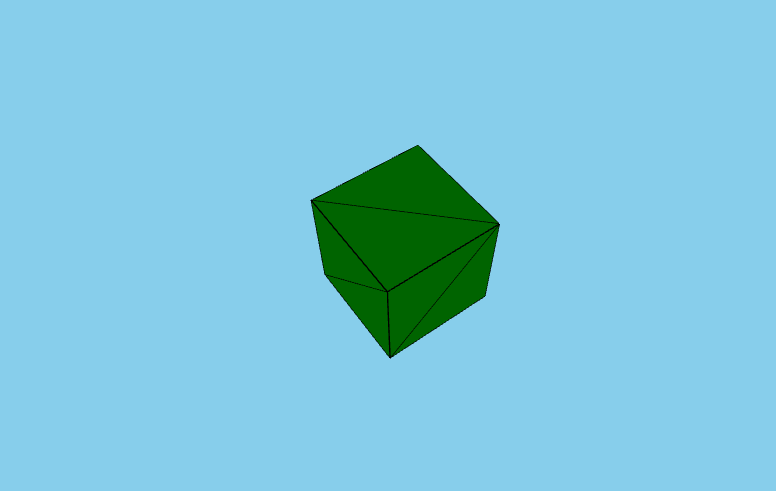
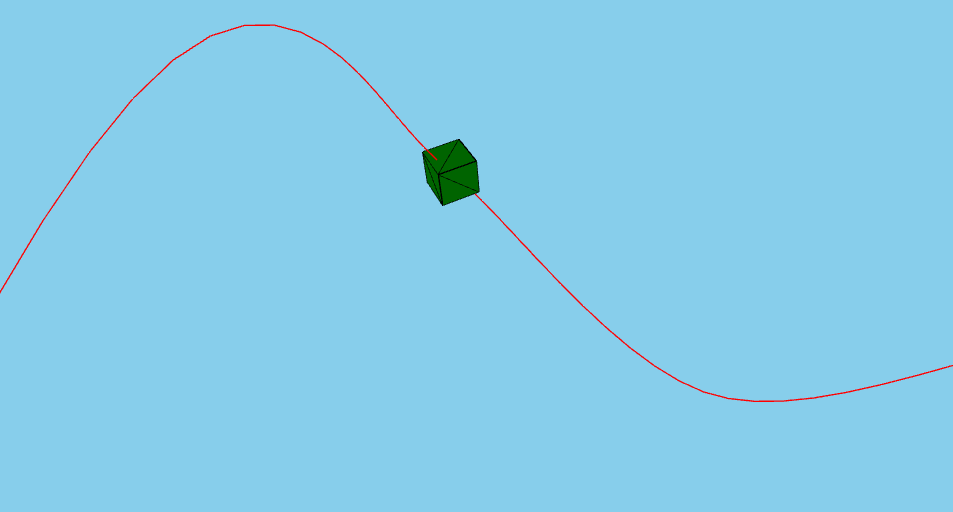
update readme

diff --git a/example/src/main/kotlin/LoaderTest.kt b/example/src/main/kotlin/LoaderTest.kt
@@ -14,7 +14,7 @@ import kotlin.browser.document
 import kotlin.browser.window
 
 
-open class LoaderTest {
+class LoaderTest {
 
     val renderer: WebGLRenderer
     val scene: Scene

diff --git a/README.md b/README.md
@@ -12,17 +12,27 @@ Kotlin wrappers for Three.js (r88)
     <meta charset="UTF-8">
     <title>Kotlin + three.js</title>
     <style>
-        body { margin: 0; }
-        canvas { width: 100%; height: 100% }
-    </style>
+			body { margin: 0; }
+			canvas { width: 100%; height: 100% }
+		</style>
 </head>
 <body>
 
-    <script src="..../three.min.js"></script>
-    <script src="..../OrbitControls.js"></script>
+<script type="text/javascript" src="https://cdnjs.cloudflare.com/ajax/libs/three.js/88/three.min.js"></script>
+<script type="text/javascript" src="js/OrbitControls.js"></script>
 
-    <script type="text/javascript" src="..../kotlin.js"></script>
-    <script type="text/javascript" src="..../threekt.js"></script>
+<script type="text/javascript" src="js/kt2js/kotlin.js"></script>
+<script type="text/javascript" src="js/kt2js/wrapper.js"></script>
+
+<script type="text/javascript" src="js/kt2js/example.js"></script>
+
+<script type="text/javascript">
+
+    new example.HelloWorld().animate()
+
+
+</script>
+
 
 </body>
 </html>
@@ -30,26 +40,6 @@ Kotlin wrappers for Three.js (r88)
 ```
 
 ```kotlin
-
-import org.three.cameras.PerspectiveCamera
-import org.three.external.controls.OrbitControls
-import org.three.geometries.BoxBufferGeometry
-import org.three.lights.AmbientLight
-import org.three.materials.MeshBasicMaterial
-import org.three.materials.MeshPhongMaterial
-import org.three.math.ColorConstants
-import org.three.scenes.Scene
-import org.three.objects.Mesh
-import org.three.renderers.WebGLRenderer
-import org.three.renderers.WebGLRendererParams
-import kotlin.browser.document
-import kotlin.browser.window
-
-fun main(args: Array<String>) {
-
-    HelloWorld().animate()
-
-}
 
 class HelloWorld {
 
@@ -62,6 +52,8 @@ class HelloWorld {
     init {
 
         scene = Scene()
+        scene.add(AmbientLight())
+
         camera = PerspectiveCamera(75, window.innerWidth.toDouble()/ window.innerHeight.toDouble(), 0.1, 1000.0)
 
         renderer = WebGLRenderer(WebGLRendererParams(
@@ -81,17 +73,35 @@ class HelloWorld {
                 })
         scene.add(cube)
 
-         val cube2 = Mesh(cube.geometry as BufferGeometry,
-                        MeshBasicMaterial().apply {
-                            this.wireframe = true
-                            this.color.set(ColorConstants.black)
-                        })
+        val cube2 = Mesh(cube.geometry as BufferGeometry,
+                MeshBasicMaterial().apply {
+                    this.wireframe = true
+                    this.color.set(ColorConstants.black)
+                })
         cube.add(cube2)
 
-        val light = AmbientLight()
-        scene.add(light)
-
         camera.position.z = 5.0
+
+
+        //Create a closed wavey loop
+        var curve = CatmullRomCurve3(
+                arrayOf(Vector3( -10.0, 0.0, 10.0 ),
+                        Vector3( -5.0, 5.0, 5.0 ),
+                        Vector3( 0.0, 0.0, 0.0 ),
+                        Vector3( 5.0, -5.0, 5.0 ),
+                        Vector3( 10.0, 0.0, 10.0 ))
+        );
+
+        var points = curve.getPoints( 50 );
+        var geometry = BufferGeometry().setFromPoints( points );
+
+        var material = LineBasicMaterial().apply {
+            color.set(0xff0000)
+        }
+
+        // Create the final object to add to the scene
+        var curveObject = Line( geometry, material );
+        scene.add(curveObject)
 
         window.addEventListener("resize", {
             camera.aspect = window.innerWidth.toDouble() / window.innerHeight;
@@ -115,4 +125,155 @@ class HelloWorld {
 
 ```
 
+
 ![result](https://raw.githubusercontent.com/markaren/three.kt/master/screenshot.PNG)
+
+# Loaders
+
+```html
+
+<!DOCTYPE html>
+<html lang="en">
+<head>
+    <meta charset="UTF-8">
+    <title>Kotlin + three.js</title>
+    <style>
+body { margin: 0; }
+canvas { width: 100%; height: 100% }
+</style>
+</head>
+<body>
+
+<script type="text/javascript" src="https://cdnjs.cloudflare.com/ajax/libs/three.js/88/three.min.js"></script>
+<script type="text/javascript" src="js/OrbitControls.js"></script>
+<script type="text/javascript" src="js/STLLoader.js"></script>
+<script type="text/javascript" src="js/OBJLoader.js"></script>
+<script type="text/javascript" src="js/LoaderSupport.js"></script>
+<script type="text/javascript" src="js/OBJLoader2.js"></script>
+
+
+<script type="text/javascript" src="js/kt2js/kotlin.js"></script>
+<script type="text/javascript" src="js/kt2js/wrapper.js"></script>
+
+<script type="text/javascript" src="js/kt2js/example.js"></script>
+
+
+<script type="text/javascript">
+
+    new example.LoaderTest().animate()
+
+
+</script>
+
+</body>
+</html>
+
+```
+
+```kotlin
+
+class LoaderTest {
+
+    val renderer: WebGLRenderer
+    val scene: Scene
+    val camera: PerspectiveCamera
+    val controls: OrbitControls
+    var models: MutableList<Mesh> = ArrayList()
+
+    init {
+
+        scene = Scene()
+
+        val light = DirectionalLight(0xffffff, 0.5)
+        light.position.set(0.toDouble(), 0.toDouble(), -1.toDouble())
+        scene.add(light)
+
+        camera = PerspectiveCamera(75, window.innerWidth.toDouble()/ window.innerHeight.toDouble(), 0.1, 1000.0)
+        camera.position.set(0.0, 5.0, -5.0)
+
+
+        renderer = WebGLRenderer(WebGLRendererParams(
+                antialias = true
+        )).apply {
+            setClearColor(ColorConstants.skyblue, 1.0)
+        }
+
+        renderer.setSize(window.innerWidth, window.innerHeight)
+        document.body!!.appendChild(renderer.domElement)
+
+        controls = OrbitControls(camera, renderer.domElement)
+
+
+
+        STLLoader().apply {
+            load("models/suzanne.stl", {
+                Mesh(it, MeshPhongMaterial().apply {
+                    color.set(0xff5533)
+                    specular.set(0x111111)
+                    shininess = 200.0
+                }).let {
+                    models.add(it)
+                    scene.add(it)
+                }
+
+            })
+        }
+
+        OBJLoader().apply {
+            load("models/suzanne.obj", {
+
+                it.position.setX(-5.toDouble())
+                models.add(it)
+                scene.add(it)
+
+            })
+        }
+
+        OBJLoader2().apply {
+            load("models/suzanne.obj", {
+
+                it.detail.loaderRootNode.let {
+
+                    it.position.setX(5.toDouble())
+
+                    it.traverse {
+                        if (it is Mesh) {
+                            it.material.asDynamic().color.set(0x00ff00)
+                        }
+                    }
+
+                    models.add(it)
+                    scene.add(it)
+
+                }
+
+            })
+        }
+
+        window.addEventListener("resize", {
+            camera.aspect = window.innerWidth.toDouble() / window.innerHeight;
+            camera.updateProjectionMatrix();
+
+            renderer.setSize( window.innerWidth, window.innerHeight )
+        }, false)
+
+    }
+
+    fun animate() {
+        window.requestAnimationFrame {
+
+            models.forEach {
+                it.rotation.apply {
+                    y += 0.01
+                }
+            }
+            animate()
+        }
+        renderer.render(scene, camera)
+    }
+
+}
+```
+
+
+![result](https://raw.githubusercontent.com/markaren/three.kt/master/screenshot2.PNG)
